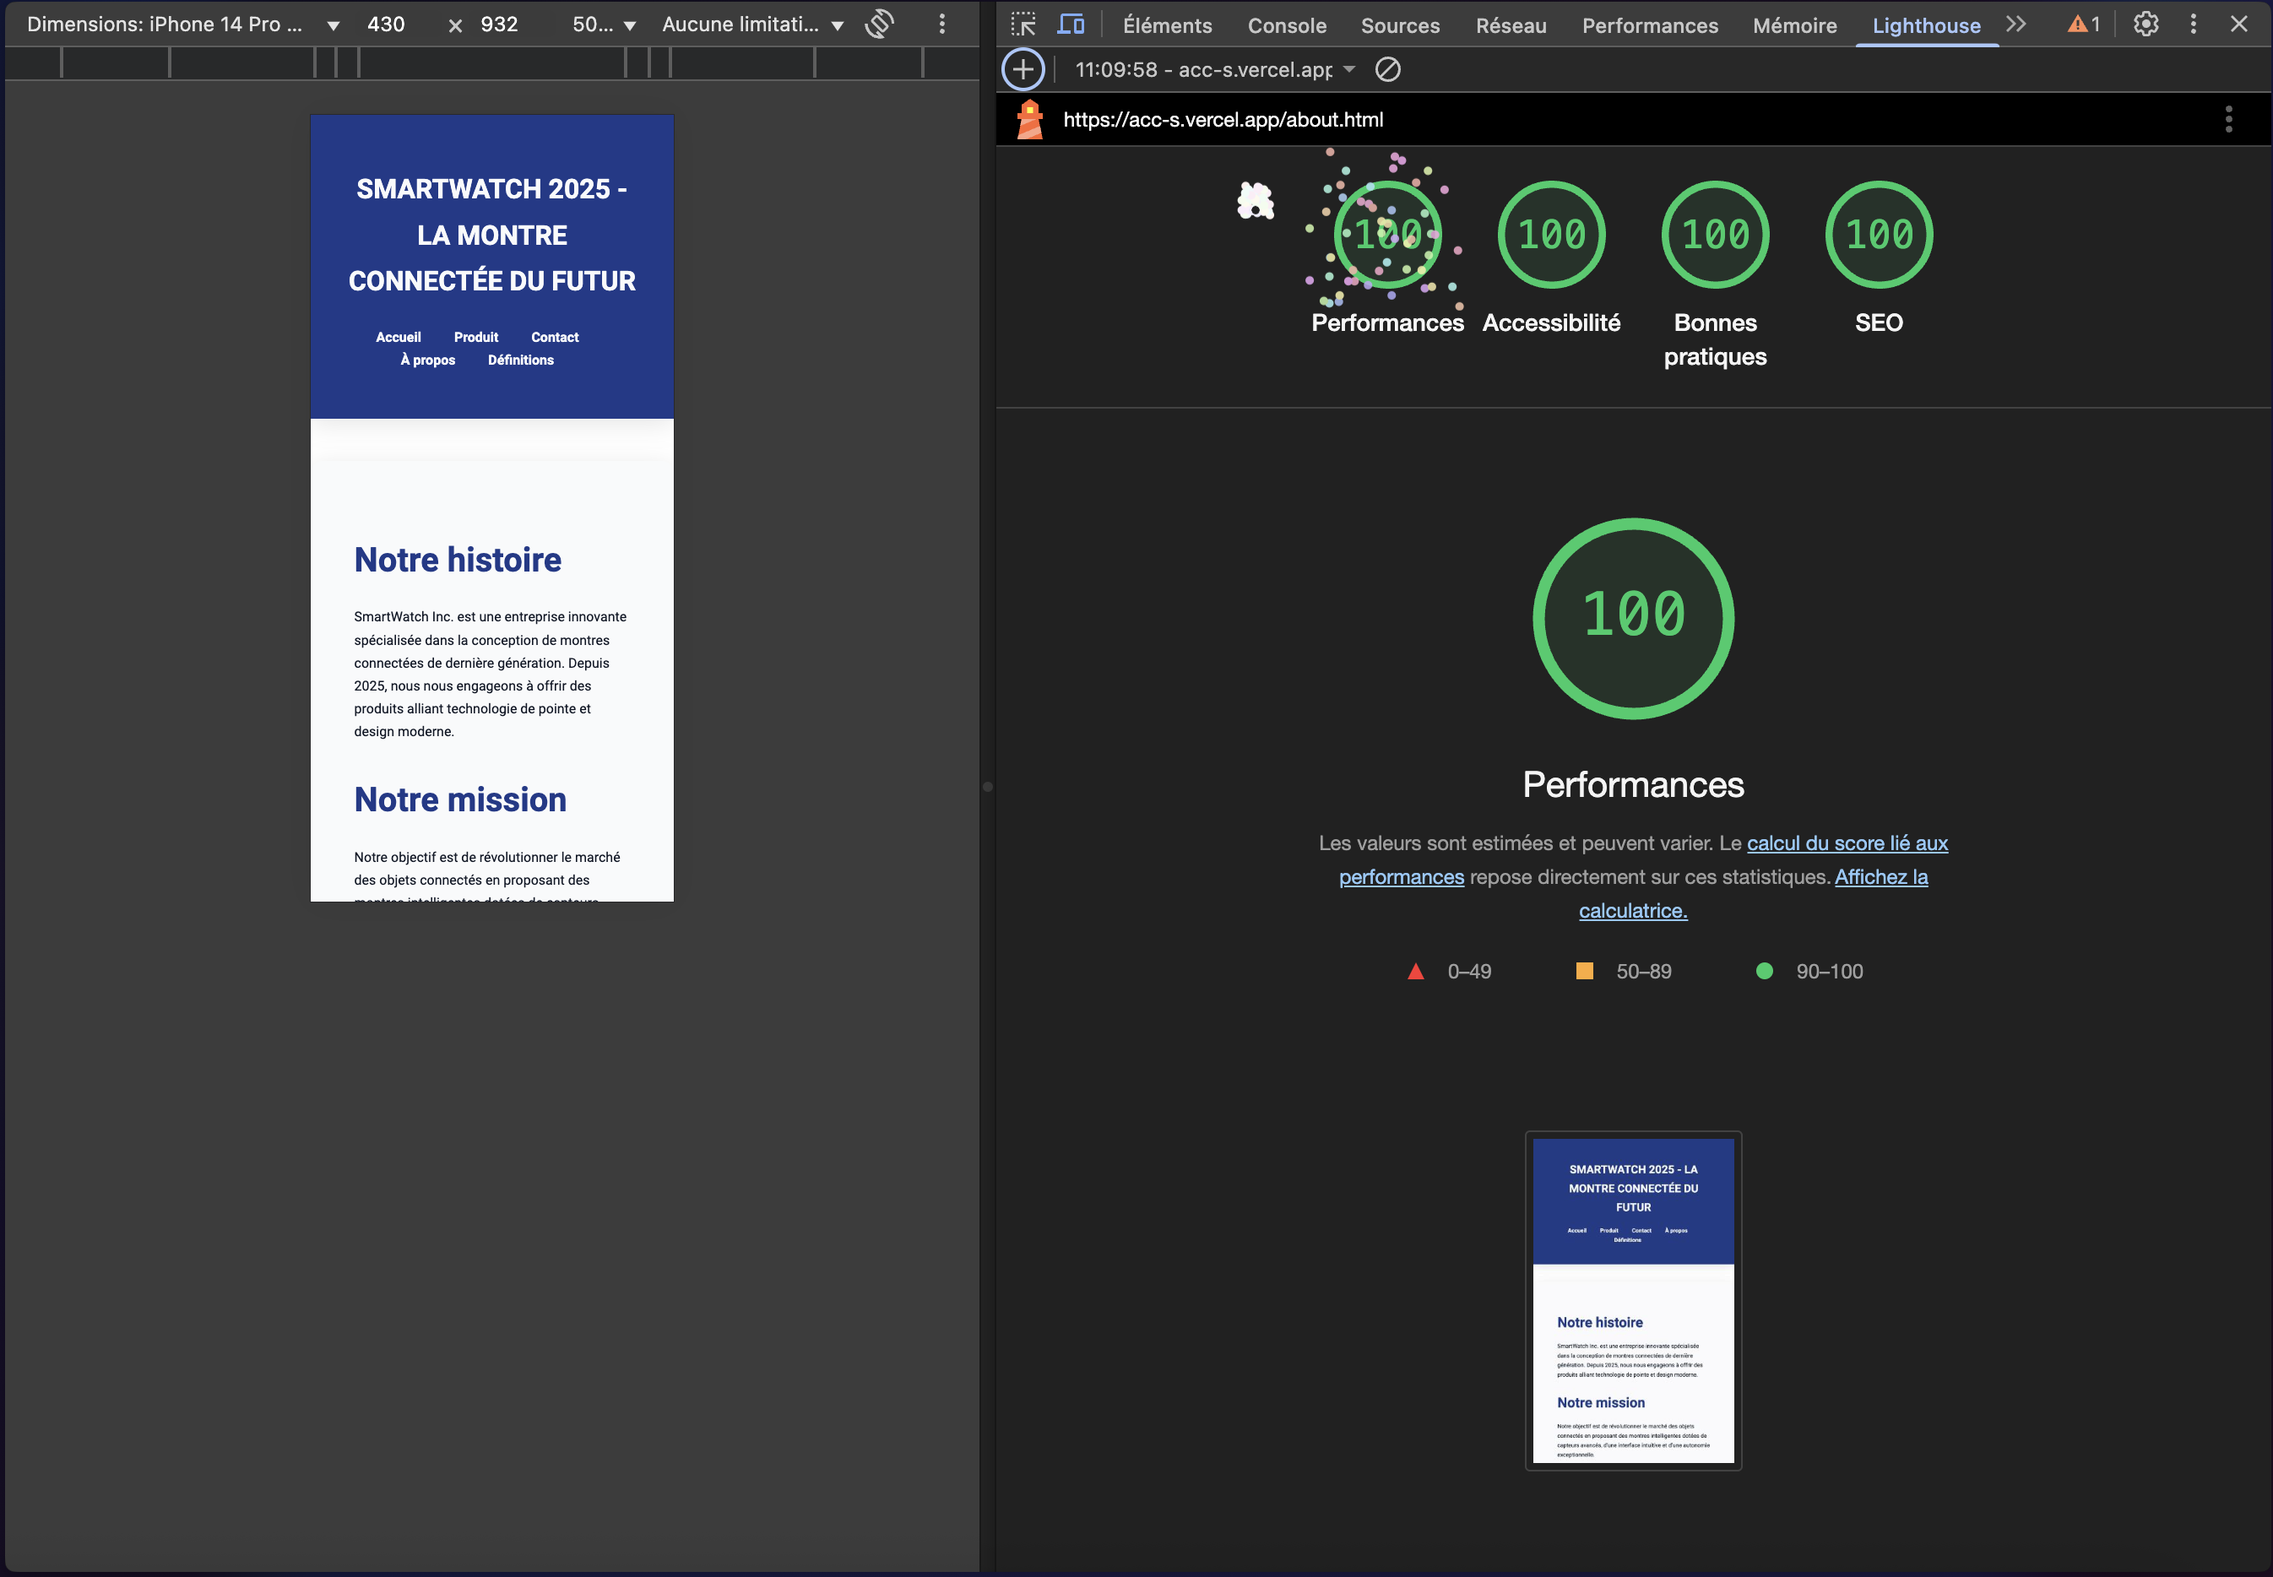
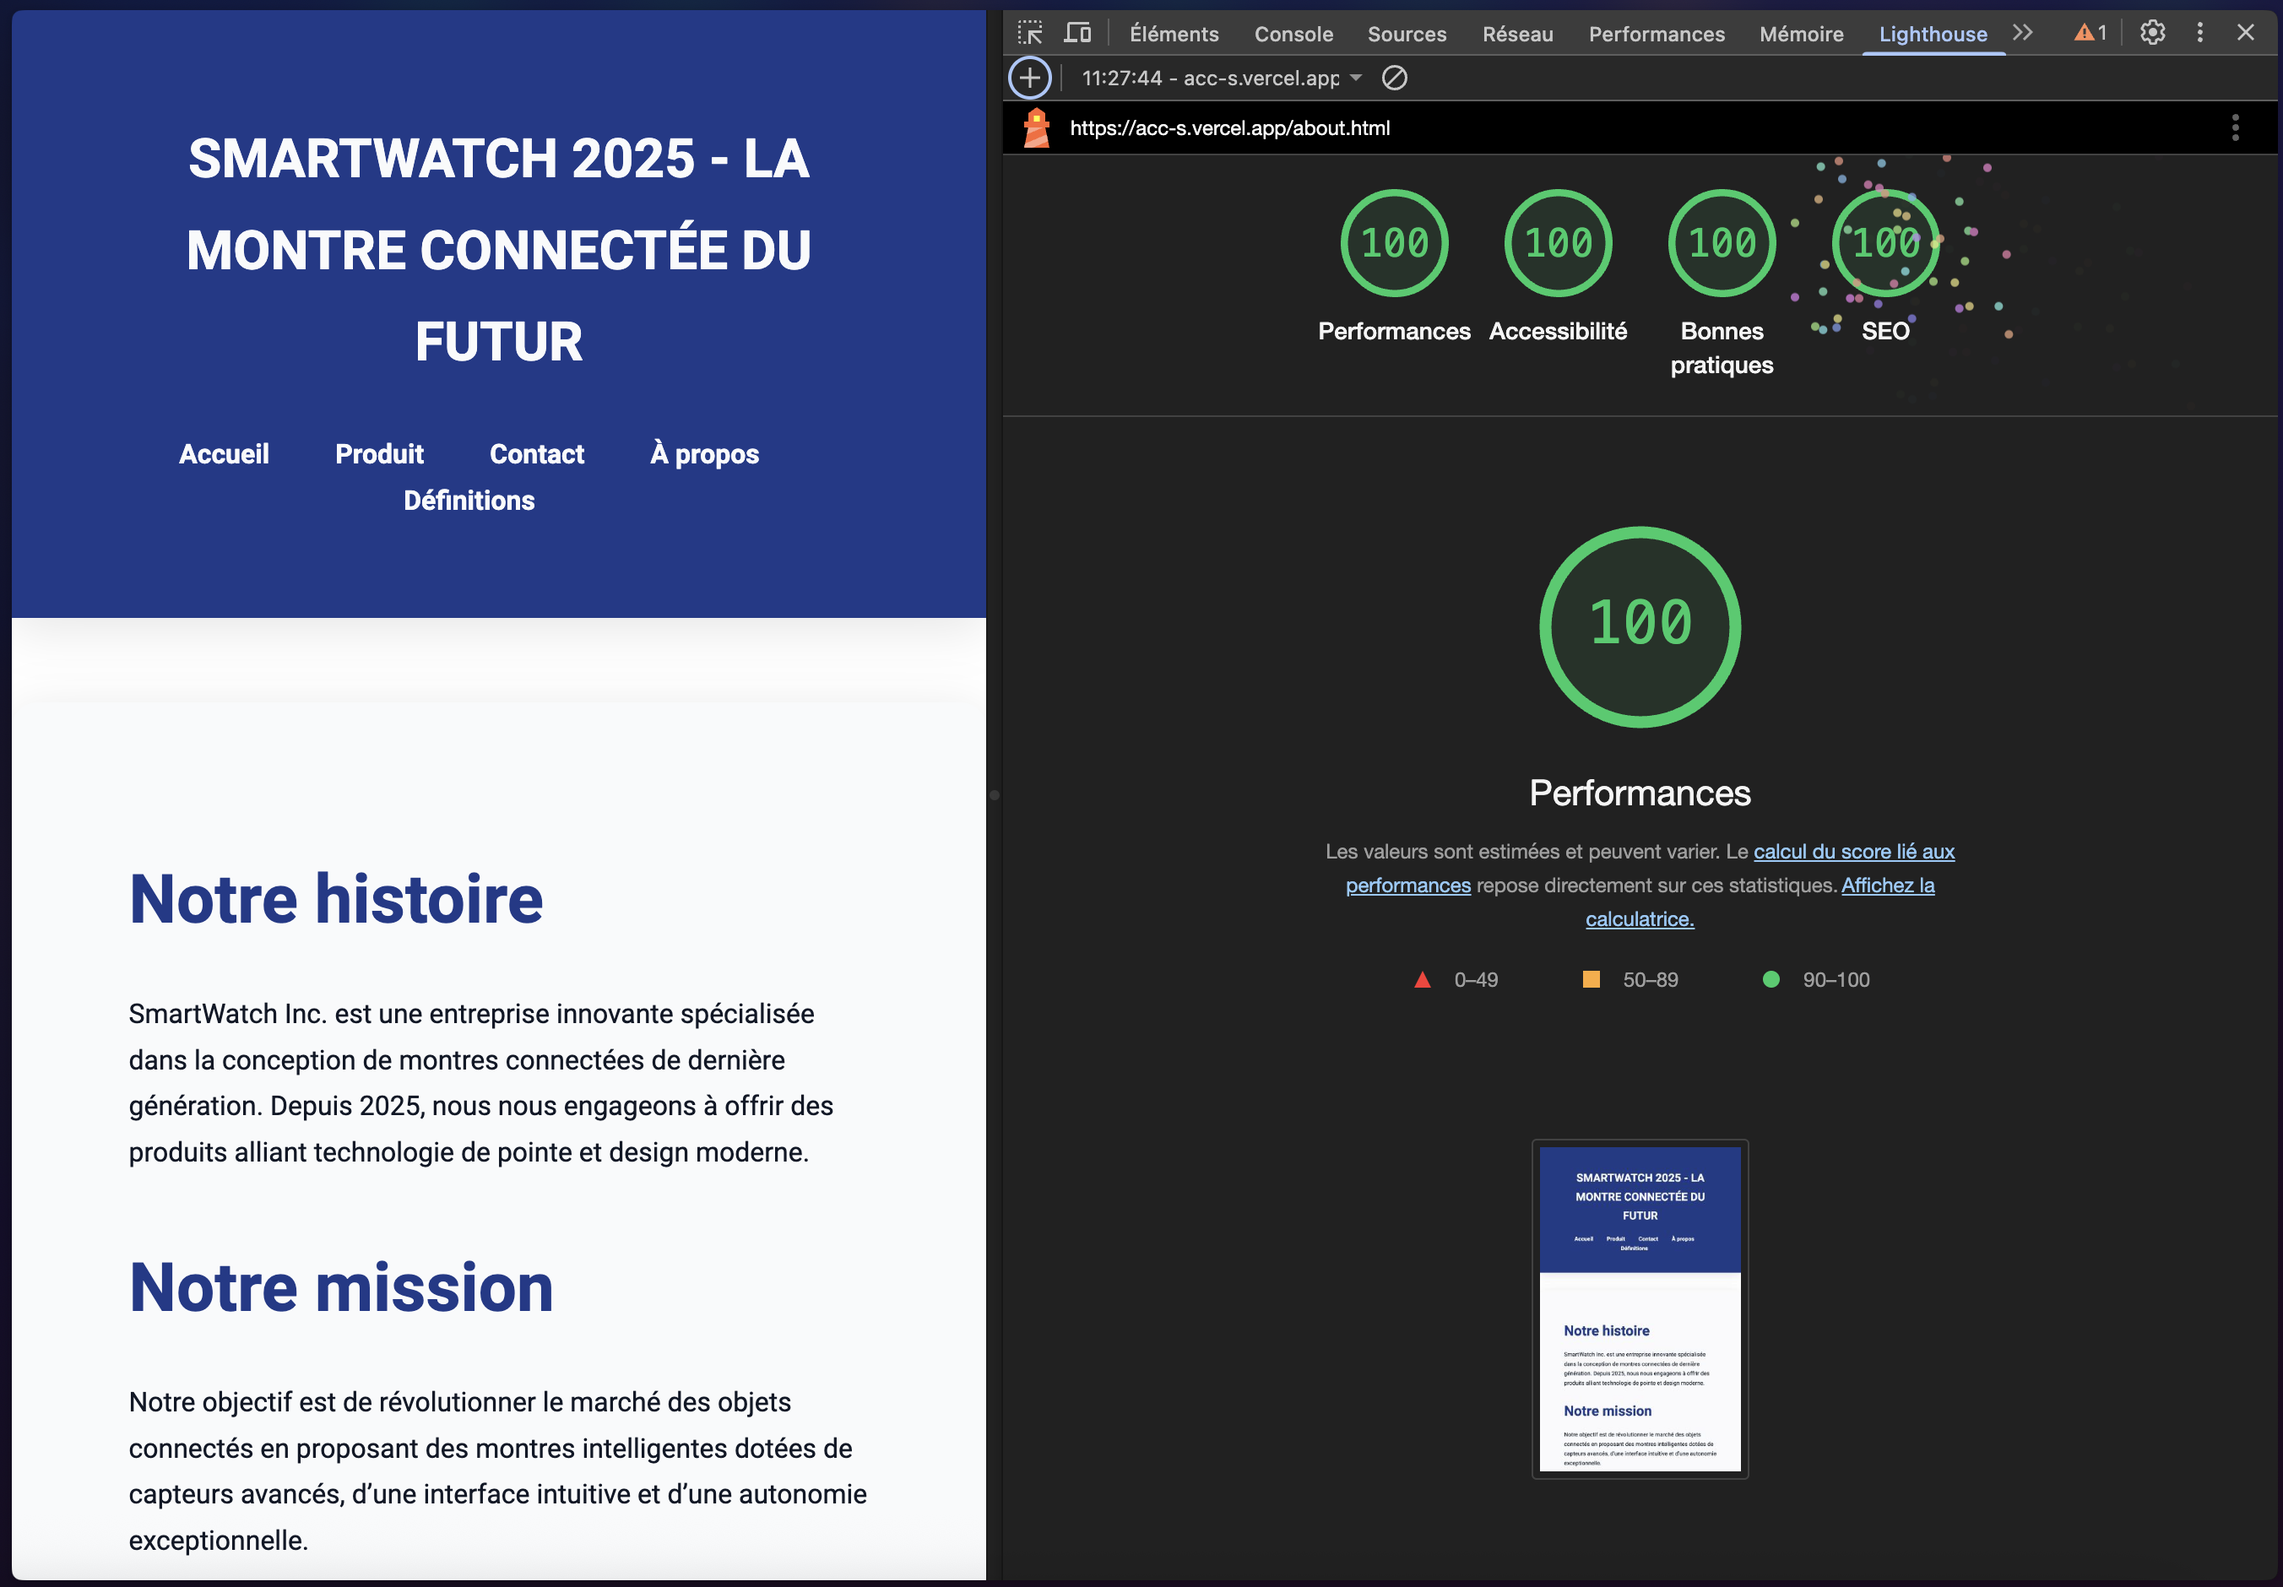
update_21

diff --git a/contact.html b/contact.html
@@ -1,17 +1,16 @@
 <!DOCTYPE html>
 <html lang="fr">
 <head>
-    <meta charset="UTF-8">
-    <meta name="viewport" content="width=device-width, initial-scale=1.0">
+    <meta charset="UTF-8" />
+    <meta name="viewport" content="width=device-width, initial-scale=1.0" />
     <meta name="description" content="Contact" />
-    <meta http-equiv="X-UA-Compatible" content="ie=edge">
+    <meta http-equiv="X-UA-Compatible" content="ie=edge" />
     <title>Contact - SmartWatch 2025</title>
-    <link rel="stylesheet" href="CSS/styles.css">
-    <script src="JS/script.js"></script>
+    <link rel="stylesheet" href="CSS/styles.css" />
+    <script href="JS/script.js"></script>
 </head>
 <body>
 
-<!-- Header -->
 <header>
     <h1>SmartWatch 2025 - La montre connectée du futur</h1>
     <nav>
@@ -20,33 +19,32 @@
             <li><a href="produit.html">Produit</a></li>
             <li><a href="contact.html">Contact</a></li>
             <li><a href="about.html">À propos</a></li>
-            <li><a href="#definitions">Définitions</a></li>
+            <li><a href="definitions.html">Définitions</a></li>
         </ul>
     </nav>
 </header>
 
-<!-- Formulaire de contact -->
 <section id="contact">
     <h2>Formulaire de contact</h2>
-    <form action="submit_contact.php" method="POST" onsubmit="return confirmSubmission(event)">
+    <form action="https://formspree.io/f/xovdzrkn" method="POST" onsubmit="confirmSubmission(event)">
         <fieldset>
             <legend>Identité</legend>
             <label for="nom">Nom :</label>
-            <input type="text" id="nom" name="nom" placeholder="Entrez votre nom" required aria-required="true">
+            <input type="text" id="nom" name="nom" placeholder="Entrez votre nom" required />
             <label for="prenom">Prénom :</label>
-            <input type="text" id="prenom" name="prenom" placeholder="Entrez votre prénom" required aria-required="true">
+            <input type="text" id="prenom" name="prenom" placeholder="Entrez votre prénom" required />
         </fieldset>
         <fieldset>
             <legend>Coordonnées</legend>
             <label for="email">Email :</label>
-            <input type="email" id="email" name="email" placeholder="exemple@domaine.com" required aria-required="true">
+            <input type="email" id="email" name="email" placeholder="exemple@domaine.com" required />
             <label for="telephone">Téléphone :</label>
-            <input type="tel" id="telephone" name="telephone" placeholder="0612345678" required aria-required="true">
+            <input type="tel" id="telephone" name="telephone" placeholder="0612345678" required />
         </fieldset>
         <fieldset>
             <legend>Message</legend>
             <label for="message">Votre message :</label>
-            <textarea id="message" name="message" placeholder="Saisissez votre message ici" required aria-required="true"></textarea>
+            <textarea id="message" name="message" placeholder="Saisissez votre message ici" required></textarea>
         </fieldset>
         <fieldset>
             <legend>Plage horaire de contact</legend>
@@ -60,16 +58,13 @@
         </fieldset>
         <button type="submit">Envoyer</button>
     </form>
-    <!-- Feedback visuel -->
-<div id="feedbackMessage" aria-live="polite" aria-atomic="true"></div>
+    <div id="feedbackMessage" aria-live="polite"></div>
 </section>
 
-
-
-<!-- Overlay & Popup de confirmation -->
+<!-- Overlay & Popup -->
 <div id="confirmationOverlay" class="overlay" aria-hidden="true"></div>
-<div id="confirmationPopup" role="dialog" aria-labelledby="popupTitle" aria-hidden="true" tabindex="-1">
-    <div class="popup-header" id="popupTitle">Confirmation d'envoi</div>
+<div id="confirmationPopup" class="popup" role="dialog" aria-labelledby="popupTitle" aria-hidden="true" tabindex="-1">
+    <div class="popup-header" id="popupTitle"><strong>Confirmation d'envoi</strong></div>
     <p>Voulez-vous vraiment envoyer ce formulaire ?</p>
     <div class="popup-actions">
         <button id="confirmYes">Oui</button>
@@ -77,5 +72,8 @@
     </div>
 </div>
 
+<footer>
+    <p>&copy; 2025 SmartWatch Inc. Tous droits réservés.</p>
+</footer>
 </body>
 </html>

diff --git a/definitions.html b/definitions.html
@@ -1,0 +1,55 @@
+
+<!DOCTYPE html>
+<html lang="fr">
+    <head>
+        <meta charset="UTF-8" />
+        <meta name="viewport" content="width=device-width, initial-scale=1.0" />
+        <meta name="description" content="Découvrez les définitions des termes techniques utilisés pour la SmartWatch 2025." />
+        <title>SmartWatch 2025 - Définitions</title>
+        <link rel="stylesheet" href="CSS/styles.css">
+    </head>
+    <body>
+        <!-- Header -->
+        <header>
+            <h1>SmartWatch 2025 - Définitions</h1>
+            <nav>
+                <ul>
+                    <li><a href="index.html">Accueil</a></li>
+                    <li><a href="produit.html">Produit</a></li>
+                    <li><a href="contact.html">Contact</a></li>
+                    <li><a href="about.html">À propos</a></li>
+                    <li><a href="definitions.html">Définitions</a></li>
+                </ul>
+            </nav>
+        </header>
+
+        <!-- Section Définitions -->
+        <section id="definitions" aria-labelledby="definitions-heading">
+            <h2 id="definitions-heading">Définitions</h2>
+            <dl>
+                <dt id="def-capteurs">Capteurs avancés (CA)</dt>
+                <dd>Dispositifs intégrés permettant de mesurer des données biométriques comme la fréquence cardiaque, le niveau d’oxygène dans le sang, etc.</dd>
+
+                <dt id="def-interface">Interface utilisateur (UI)</dt>
+                <dd>Interface intuitive conçue pour être facile à comprendre et à utiliser sans manuel d’instructions.</dd>
+
+                <dt id="def-autonomie">Autonomie (AUT)</dt>
+                <dd>Durée pendant laquelle la montre peut fonctionner sans être rechargée, en usage normal ou intensif.</dd>
+            </dl>
+        </section>
+
+        <!-- Footer -->
+        <footer>
+            <p>&copy; 2025 SmartWatch Inc. Tous droits réservés.</p>
+            <nav>
+                <ul>
+                    <li><a href="index.html">Accueil</a></li>
+                    <li><a href="about.html">À propos</a></li>
+                    <li><a href="produit.html">Produit</a></li>
+                    <li><a href="contact.html">Contact</a></li>
+                    <li><a href="definitions.html">Définitions</a></li>
+                </ul>
+            </nav>
+        </footer>
+    </body>
+</html>

diff --git a/CSS/styles.css b/CSS/styles.css
@@ -10,6 +10,89 @@
     --shadow-color: rgba(0, 0, 0, 0.1);
 }
 
+/* --- HEADER MODERNE --- */
+header {
+    background: linear-gradient(90deg, #1e3c72 0%, #2a5298 100%);
+    color: #fff;
+    padding: 0 0 1.5rem 0;
+    box-shadow: 0 2px 8px rgba(30,60,114,0.08);
+    position: relative;
+}
+
+.header-container {
+    display: flex;
+    align-items: center;
+    justify-content: space-between;
+    max-width: 1200px;
+    margin: 0 auto;
+    padding: 1.2rem 2rem 0.5rem 2rem;
+}
+
+.logo {
+    display: flex;
+    align-items: center;
+    text-decoration: none;
+}
+.logo img {
+    margin-right: 0.7rem;
+    height: 48px;
+    width: 48px;
+}
+.brand-name {
+    font-size: 1.6rem;
+    font-weight: 700;
+    letter-spacing: 1px;
+    color: #fff;
+}
+
+.main-nav ul {
+    display: flex;
+    gap: 1.5rem;
+    list-style: none;
+    margin: 0;
+    padding: 0;
+}
+.main-nav a {
+    color: #fff;
+    text-decoration: none;
+    font-weight: 500;
+    padding: 0.3rem 0.7rem;
+    border-radius: 4px;
+    transition: background 0.2s;
+}
+.main-nav a:hover, .main-nav a.active {
+    background: rgba(255,255,255,0.15);
+}
+
+.header-title {
+    text-align: center;
+    font-size: 2rem;
+    font-weight: 600;
+    margin: 0.5rem 0 0 0;
+    letter-spacing: 1px;
+}
+
+/* Responsive header */
+@media (max-width: 900px) {
+    .header-container {
+        flex-direction: column;
+        align-items: flex-start;
+        padding: 1.2rem 1rem 0.5rem 1rem;
+    }
+    .main-nav ul {
+        gap: 0.7rem;
+    }
+    .logo img {
+        height: 38px;
+        width: 38px;
+    }
+    .brand-name {
+        font-size: 1.2rem;
+    }
+    .header-title {
+        font-size: 1.3rem;
+    }
+}
 
 body {
     font-family: 'Roboto', sans-serif;
@@ -262,3 +345,28 @@ legend {
         height: auto;
     }
 }
+
+.overlay {
+    display: none;
+    position: fixed;
+    top: 0; left: 0; right: 0; bottom: 0;
+    background: rgba(0, 0, 0, 0.5);
+    z-index: 999;
+}
+.popup {
+    display: none;
+    position: fixed;
+    top: 50%; left: 50%;
+    transform: translate(-50%, -50%);
+    background: white;
+    padding: 1em;
+    z-index: 1000;
+    border-radius: 10px;
+    max-width: 400px;
+    text-align: center;
+}
+.overlay.active, .popup.active {
+    display: block;
+}
+.error { color: red; }
+.success { color: green; }

diff --git a/index.html b/index.html
@@ -19,7 +19,7 @@
                 <li><a href="produit.html">Produit</a></li>
                 <li><a href="contact.html">Contact</a></li>
                 <li><a href="about.html">À propos</a></li>
-                <li><a href="#definitions">Définitions</a></li>
+                <li><a href="definitions.html">Définitions</a></li>
             </ul>
         </nav>
     </header>
@@ -115,7 +115,7 @@
                 <li><a href="about.html">À propos</a></li>
                 <li><a href="produit.html">Produit</a></li>
                 <li><a href="contact.html">Contact</a></li>
-                <li><a href="#definitions">Définitions</a></li>
+                <li><a href="definitions.html">Définitions</a></li>
             </ul>
         </nav>
     </footer>

diff --git a/about.html b/about.html
@@ -19,7 +19,7 @@
                 <li><a href="produit.html">Produit</a></li>
                 <li><a href="contact.html">Contact</a></li>
                 <li><a href="about.html">À propos</a></li>
-                <li><a href="#definitions">Définitions</a></li>
+                <li><a href="definitions.html">Définitions</a></li>
             </ul>
         </nav>
     </header>
@@ -50,7 +50,7 @@
                 <li><a href="about.html">À propos</a></li>
                 <li><a href="produit.html">Produit</a></li>
                 <li><a href="contact.html">Contact</a></li>
-                <li><a href="#definitions">Définitions</a></li>
+                <li><a href="definitions.html">Définitions</a></li>
             </ul>
         </nav>
     </footer>

diff --git a/produit.html b/produit.html
@@ -19,7 +19,7 @@
                 <li><a href="produit.html">Produit</a></li>
                 <li><a href="contact.html">Contact</a></li>
                 <li><a href="about.html">À propos</a></li>
-                <li><a href="#definitions">Définitions</a></li>
+                <li><a href="definitions.html">Définitions</a></li>
             </ul>
         </nav>
     </header>
@@ -71,7 +71,7 @@
                 <li><a href="about.html">À propos</a></li>
                 <li><a href="produit.html">Produit</a></li>
                 <li><a href="contact.html">Contact</a></li>
-                <li><a href="#definitions">Définitions</a></li>
+                <li><a href="definitions.html">Définitions</a></li>
             </ul>
         </nav>
     </footer>
